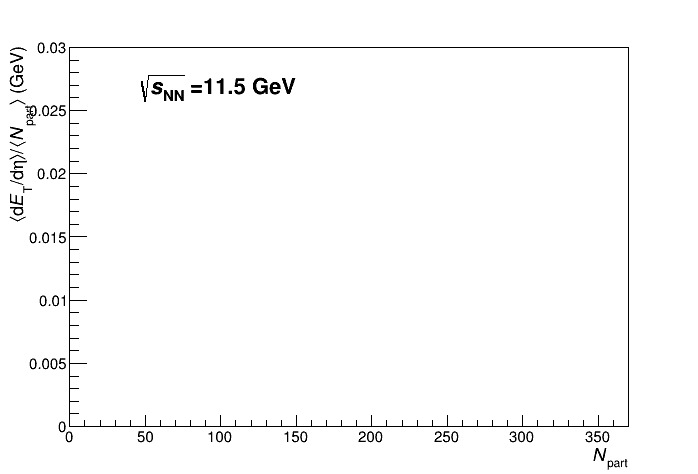
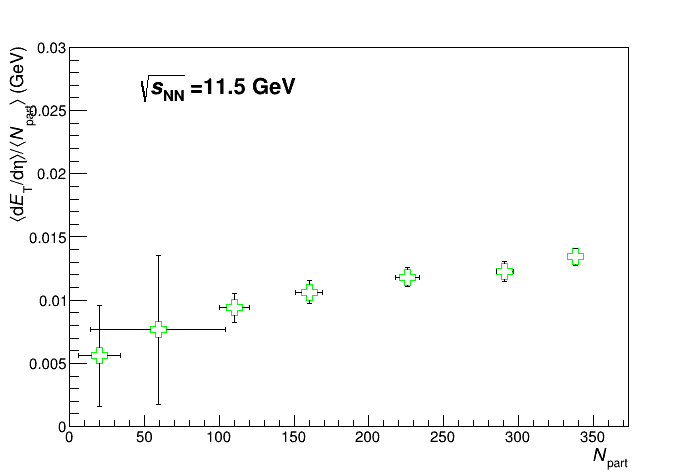
errors in the TGraphErrors plots created by interpLaCentTGE.cpp don't look right, going to debug it

diff --git a/interpLaCentTGE.cpp b/interpLaCentTGE.cpp
@@ -15,13 +15,13 @@ using namespace std;
 
 std::string doubToString(Double_t);
 std::string centIndToPercent(int centInd);
-void formatGraph(TGraphErrors* g, Double_t collEnArr[], int enInd);
+void formatGraph(TGraphErrors* g, Double_t collEn_Or_NpartArr[], int en_Or_centInd);
 Double_t* interpolateNpartGraph(TGraphErrors* tg, int en);
 Int_t* getNpartAndErr(Double_t collisionEnergy, int centrality);
 void printInterpolatedGraph(TGraphErrors* tg, int en, Double_t* x_interp, Double_t* y_interp, Double_t* x_interp_err, Double_t* y_interp_err);
 // main function:
 Double_t collEnArr[5] = {7.7,11.5,19.6,27,39}; // To use in TGraphErrors
-int interpolateLaCent(){
+int interpLaCentTGE(){
 	std::ofstream datfile ("lambdasInterpWithErr.dat", std::ofstream::out);
 	cout << "CollEn" << "\t"
 		<< "dETdEta1" << "\n";
@@ -233,7 +233,7 @@ int interpolateLaCent(){
 		g1 = new TGraph(5, collEnArr, dETdEtaOverNpartBy2SumCentByCent);
 		g1 -> SetName("dETdEtaOverNpartBy2Sum_vs_en"); // unique identifier to be used in function:
 		cout << "Now formatting graph: " << g1->GetName() << endl;
-		formatGraph(g1, centArr, centInd);
+		// TODO formatGraph(g1, centArr, centInd);
 		delete g1;	
 	
 		// TODO make a function to take care of different types of graph instead of creating new objects here
@@ -241,7 +241,7 @@ int interpolateLaCent(){
 		g2 = new TGraph(5, collEnArr, dETdEtaOverdNchdEtaSumCentByCent);
 		g2 -> SetName("dETdEtaOverdNchdEtaSum_vs_en"); // unique identifier to be used in function:
 		cout << "Now formatting graph: " << g2->GetName() << endl;
-		formatGraph(g2, centArr, centInd);
+		// TODO formatGraph(g2, centArr, centInd);
 		delete g2;
 		
 	} // end of for loop with index centInd
@@ -267,7 +267,7 @@ int interpolateLaCent(){
 
 		TGraphErrors* g1; // okay to use identifier g1 in local scope as was the case in previous use
 		//TGraphErrors *tg = new TGraphErrors(xNum, &xVec[0], &yVec[0], NULL, &yVecErrStat[0])
-		g1 = new TGraph(cents/*=7*/, NpartArrEnByEn, dETdEtaOverNpartBy2SumEnByEn, 
+		g1 = new TGraphErrors(cents/*=7*/, NpartArrEnByEn, dETdEtaOverNpartBy2SumEnByEn, 
 								NpartArrEnByEn_err, dETdEtaOverNpartBy2SumEnByEn_err);
 		cout << "npartArr: "; 
 		for (int i = 0; i<cents; i++){
@@ -305,7 +305,7 @@ int interpolateLaCent(){
 		TGraph* g2;
 		g2 = new TGraph(cents, NpartArrEnByEn, dETdEtaOverdNchdEtaSumEnByEn);
 		g2 -> SetName("dETdEtaOverdNchdEtaSum_vs_Npart");
-		formatGraph(g2, collEnArr, enInd);
+		// TODO formatGraph(g2, collEnArr, enInd);
 		delete g2;
 		
 		
@@ -477,15 +477,17 @@ Double_t* interpolateNpartGraph(TGraphErrors* tg, int en){
 		 // for the percent error in the above point
 		Double_t x; // temp var to hold (i-5)th x-val
 		Double_t y; // temp var to hold (i-5)th y-val
-		tg -> GetPoint(i-6, x, y);
+		tg -> GetPoint(i-6, x, y); // FIXME: not sure if it should be i-6 always
+		// find absolute error by multiplying the percent error with the y-value
 		y_interp_err[i-5] 	= y_interp[i-5]*(tg->GetErrorY(i-6))/y; // numbering for class TGE starts at 0
 		// get dET/dEta = (dET/dEta)/npart * npart:
 		y_interpET[i-5] 	= (tg -> Eval(x_interp[i-5], 0,"S"))*x_interp[i-5];
 		// save errors in the same array:
 		Double_t x2;
 		Double_t y2;
+		// assign values to x2 and y2:
 		tg -> GetPoint(i+1, x2, y2);
-		y_interpET_err[i-1] 	= (tg->GetErrorY(i+1)/y2)*x_interp[i-5];
+		y_interpET[i-1] 	= (tg->GetErrorY(i+1)/y2)*x_interp[i-5];
 	}
 	cout << "x_interp: "; 
 	for (int i = 0; i<4; i++){
@@ -504,7 +506,6 @@ Double_t* interpolateNpartGraph(TGraphErrors* tg, int en){
 	cout << endl;
 	//cout << "test debug graph iter *************" << endl;
 	printInterpolatedGraph(tg, en, x_interp, y_interp, x_interp_err,y_interp_err);
-	// HERE TODO TODO TODO TODO TODO TODO
 	// so far... created everything that will go into the constructor for the debug graph
 	// which is to be created by the function call above
 	cout << "En value to pass: " << en << endl;
@@ -526,7 +527,7 @@ void printInterpolatedGraph(TGraphErrors* tg, int en, Double_t* x_interp, Double
 	copy(arr1, arr1 + size1, result);
 	copy(arr2, arr2 + size2, result + size1);
 	*/
-	Double_t xArr1[tg->GetN()];
+	Double_t xArr1[tg->GetN()]; // see above comment
 	copy(tg->GetX(), tg->GetX()+tg->GetN(), xArr1);
 	cout << "xArr1: "; 
 	for (int i = 0; i<tg->GetN(); i++){
@@ -567,11 +568,18 @@ void printInterpolatedGraph(TGraphErrors* tg, int en, Double_t* x_interp, Double
 	cout << "size of arr1: " << size1 << " size of arr2: " << size2<< endl;
 	cout << "final array size: " << sizeFinal << endl;
 	Double_t xArrFinal[sizeFinal];
+	Double_t xArrFinal_err[sizeFinal];
 	Double_t yArrFinal[sizeFinal];
+	Double_t yArrFinal_err[sizeFinal];
 	copy(xArr1, xArr1+size1, xArrFinal);
 	copy(x_interp, x_interp+size2, xArrFinal+size1-2);
+		// HERE TODO TODO TODO TODO TODO TODO
+	copy(xArr1_err, xArr1_err+size1, xArrFinal_err);
+	copy(x_interp_err, x_interp_err+size2, xArrFinal_err+size1-2);
 	copy(yArr1, yArr1+size1, yArrFinal);
 	copy(y_interp, y_interp+size2, yArrFinal+size1-2);
+	copy(yArr1_err, yArr1_err+size1, yArrFinal_err);
+	copy(y_interp_err, y_interp_err+size2, yArrFinal_err+size1-2);
 	cout << "xArrFinal: "; 
 	for (int i = 0; i<sizeFinal; i++){
 		cout << *(xArrFinal+i) << ", ";
@@ -582,7 +590,7 @@ void printInterpolatedGraph(TGraphErrors* tg, int en, Double_t* x_interp, Double
 		cout << *(yArrFinal+i) << ", ";
 	}
 	cout << endl;
-	gr = new TGraph(sizeFinal, xArrFinal, yArrFinal);
+	gr = new TGraphErrors(sizeFinal, xArrFinal, yArrFinal, xArrFinal_err, yArrFinal_err);
 	gr -> SetName("dETdEtaOverdNchdEtaSum_vs_Npart_Final");
 	cout << "En test: " << en << endl;
 	formatGraph(gr, collEnArr, en);
